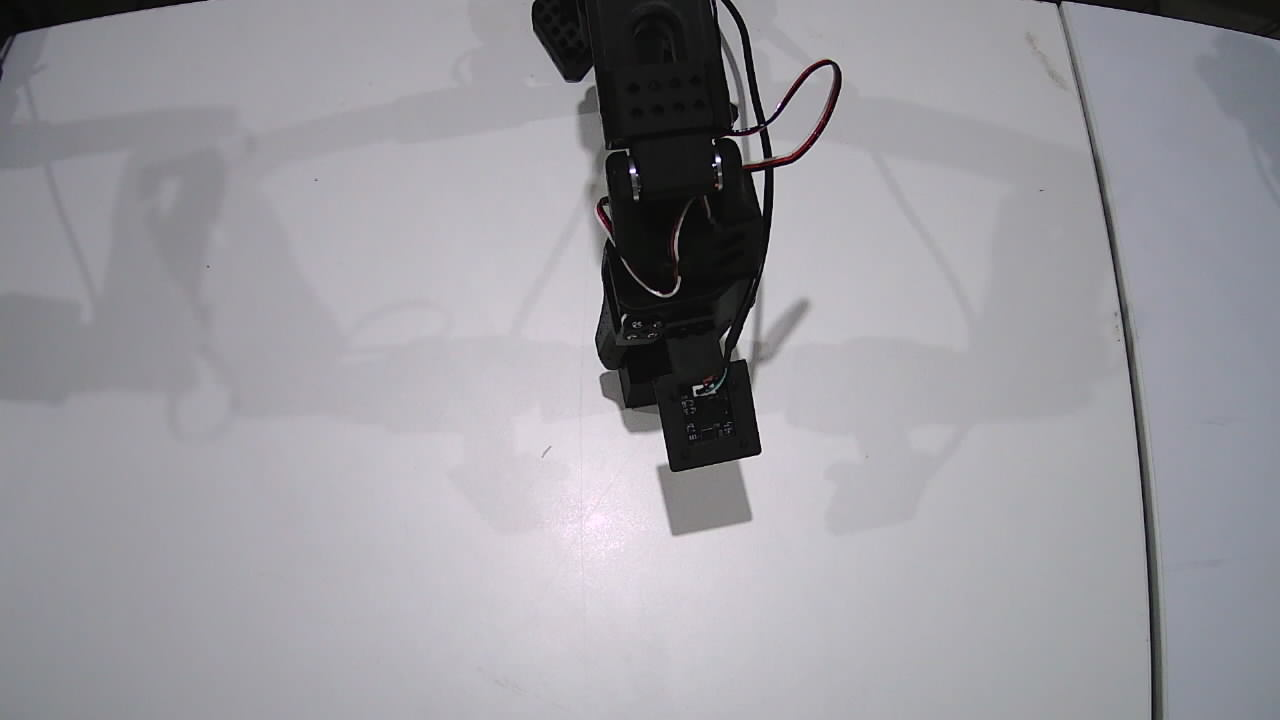
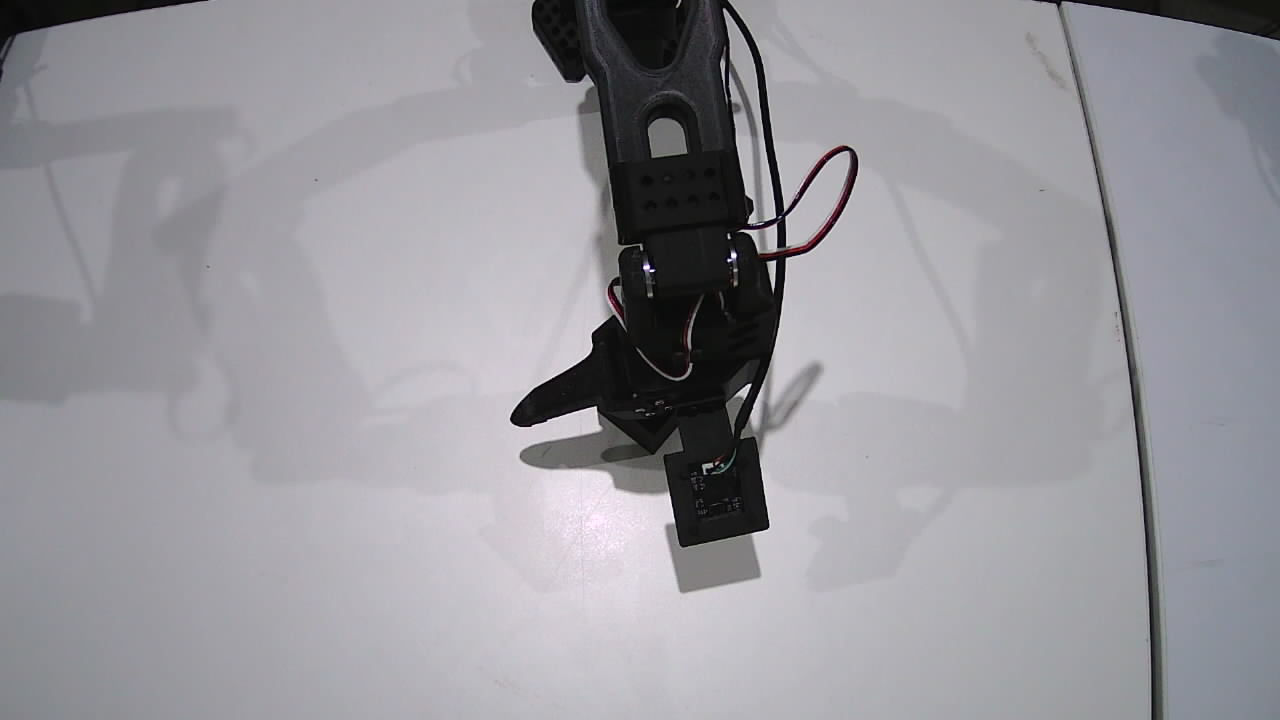
Update tools for arm-006__gpt-6-astra__grasp-cube
{"agent_id": "arm-006__gpt-6-astra__grasp-cube", "baseline_sha256": "6df93a20a05a3dc1a156aa3b51eb1788e2ddcd91056a577397b979b7e33a31ed", "baseline_version": 1, "designation": "arm-006", "experiment_id": "60ddc167-ccd2-416f-ad08-ab3b06d545fc", "fleet_database_enabled": false, "freshness_version": 2, "identity_version": 2, "model": "gpt-6-astra", "preserved_sha256": {"calibration/20261005T100921_180531211/intrinsics.json": "4ec6b1a49abda43063976d392ddf66a39353947ce3d08c35a88e17c021954163", "calibration/20261005T100921_180531211/report.json": "c36605c4f486eda36e5b659a6f6428e72a5679222d74ef6550e54b39fe44cb63", "calibration/20261005T100921_180531211/workspace_map.json": "a057358c35ff4d80235ff64e4b2f909b3d933f39c7657a719e535014511e5796", "calibration/20261005T100921_180531211/workspace_map.npz": "05e9f06fb38099b74b4dcf1a233c88bfe3cfc0e95c144da8c173346c2727279a", "calibration/20261005T100921_180531211/workspace_undistorted.png": "0cf381266158cf31f6acf0bc6fbdf818957f14528b1651d3761cc4271ca91053", "calibration/ready.json": "a2b2addfd83165981076a80147577469be26edadaff97f388cc365b77e7f4986", "cameras.json": "343a8b61bbc2d74885ee73db1cb84786681ef9bdfa17db4ff9f7a2ee160c0ef0", "config/motors/arm-006.json": "2e75c66010c99cdd47926348632396d2a4f09bd195ccb8c200f777b70068611f", "home_pose.json": "908e801e509a421a940722512db24462fd5390764e1e33a5464ccec438febb21", "tools/calibrate_workspace.py": "119afb4f6ffb1f3b424724658b6104c288c5db2a34f2b6faaba2ada84d8aaf17"}, "provider": "codex", "reset_at
[…]

Changed region(s): [[0.375, 0.0, 0.6875, 0.825]]

diff --git a/agents/arm-006__gpt-6-astra__grasp-cube/grasp_home.py b/agents/arm-006__gpt-6-astra__grasp-cube/grasp_home.py
@@ -1,0 +1,17 @@
+from pathlib import Path
+import time,json
+import calibrate_workspace as c,recording
+from task_motion import snap
+with c.connected_bus(recording.serial_port()) as b:
+ g=c.AdaptiveGrip(b);b.adaptive_grip=g
+ try:
+  print(g.acquire(),flush=True)
+  lift={'shoulder_lift':-35,'elbow_flex':65,'wrist_flex':-30,'gripper':0}
+  c.move(b,lift,3);c.settle(b,lift,.4)
+  home=c.load_home(Path('home_pose.json'))
+  c.enable_at_current_position(b,list(home));c.move(b,home,3);print(c.settle(b,home,.5),flush=True)
+  snap();print('AT_HOME_REQUIRES_VISUAL_CONFIRMATION',flush=True)
+  for _ in range(50):g.tick();time.sleep(.1)
+  print(g.sample(),flush=True)
+ except Exception:
+  g.stop();snap();raise
